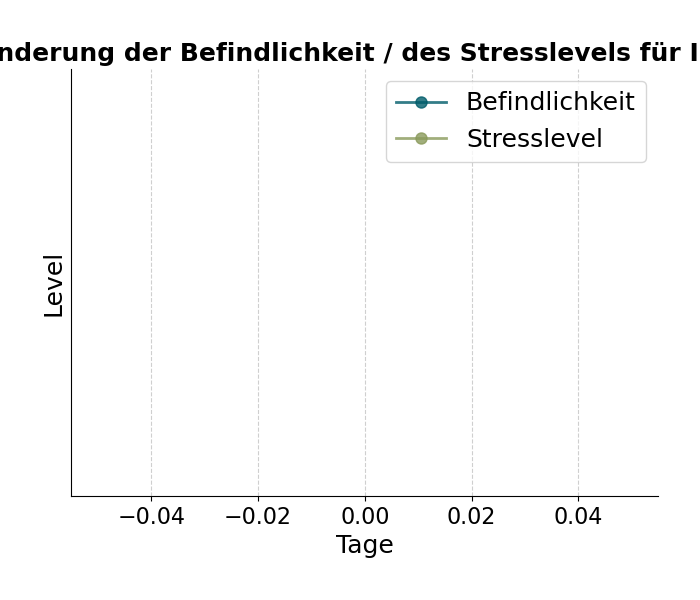
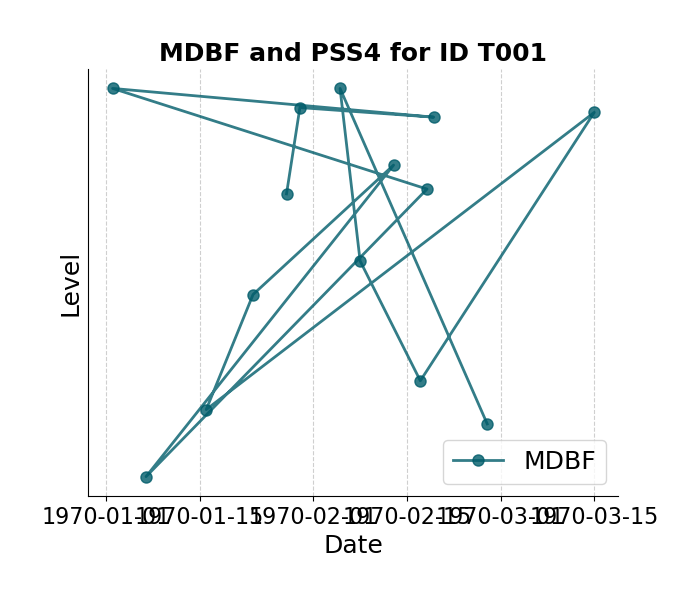
adds linegraphs on dummy data

diff --git a/src/visualization.py b/src/visualization.py
@@ -50,6 +50,55 @@ def plot_pie_charts(data: pd.DataFrame, topics_columns: list, output_dir: str):
         fig1.savefig(file_path, facecolor='white')
         plt.close(fig1)  
 
+def plot_line_graphs(data: pd.DataFrame, mdbf_columns: list, pss4_columns: list, output_dir: str):
+    """
+    Creates line graphs for each unique ID in the 'SERIAL' column, showing average values for MDBF and PSS4 columns.
+    
+    Parameters:
+    - data (pd.DataFrame): The input DataFrame containing the data.
+    - mdbf_columns (list): List of column names related to MDBF.
+    - pss4_columns (list): List of column names related to PSS4.
+    - output_dir (str): Directory where the line graphs will be saved.
+    """
+    
+    # Unique IDs in the SERIAL column
+    unique_ids = data['SERIAL'].unique()
+    
+    for unique_id in unique_ids:
+        # Filter data for the current ID
+        subset = data[data['SERIAL'] == unique_id]
+        print("-----------------")
+        print (unique_id)
+       
+        # Ensure the subset has more than one row for plotting
+        if subset.shape[0] <= 1:
+            continue
+
+        print(subset['MDBF_Awake'])
+        print(subset['STARTED'])
+    
+        # create line graph 
+        fig2, ax2 = plt.subplots(figsize=(7, 6), facecolor='white')
+        ax2.plot(subset['MDBF_Satisfied'], subset['MDBF_Awake'], marker='o', label='MDBF', color='#005C6A', linewidth=2, markersize=8, alpha=0.8)
+        #ax2.plot(subset['STARTED'], subset['PSS4_Stress'], marker='o', label='PSS4', color='#8A9A5B', linewidth=2, markersize=8, alpha=0.8)
+        ax2.set_title(f'MDBF and PSS4 for ID {unique_id}', fontsize=18, fontweight='bold')
+        ax2.set_xlabel('Date', fontsize=18)
+        ax2.set_ylabel('Level', fontsize=18)
+        ax2.tick_params(axis='x', labelsize=16)
+        ax2.tick_params(axis='y', labelsize=16)
+        ax2.legend(fontsize=18)
+        ax2.grid(True, linestyle='--', alpha=0.6)
+        ax2.fill_between(subset['STARTED'], subset[mdbf_columns].mean(axis=1), subset[pss4_columns].mean(axis=1), color='grey', alpha=0.1)
+        ax2.spines['top'].set_visible(False)
+        ax2.spines['right'].set_visible(False)
+        ax2.yaxis.set_ticks([])
+        plt.tight_layout(pad=3.0)
+        
+        # Save the line graph
+        file_path = os.path.join(output_dir, f'line_graph_{unique_id}.png')
+        fig2.savefig(file_path, facecolor='white')
+        plt.close(fig2) 
+
 def create_visualizations(data: pd.DataFrame, mdbf_columns: list, pss4_columns: list, topics_columns: list, output_dir: str):
     """
     Creates all plots for the individual participants
@@ -67,4 +116,4 @@ def create_visualizations(data: pd.DataFrame, mdbf_columns: list, pss4_columns: 
     os.makedirs(output_dir, exist_ok=True)
 
     plot_pie_charts(data, topics_columns, output_dir)
-    #plot_line_graphs(data, mdbf_columns, pss4_columns, output_dir)
+    plot_line_graphs(data, mdbf_columns, pss4_columns, output_dir)

diff --git a/src/main.py b/src/main.py
@@ -32,7 +32,7 @@ def main():
     print("Data loaded and processed successfully!")
     pd.set_option('display.max_columns', None)  # Show all columns
     pd.set_option('display.max_rows', 10)       
-    print(processed_data.head())  
+    #print(processed_data.head())  
 
 
     # Plot pie charts for each unique ID

diff --git a/src/preprocessing.py b/src/preprocessing.py
@@ -46,6 +46,6 @@ def preprocess_data(data: pd.DataFrame) -> pd.DataFrame:
     data['QUESTNNR'] = data['QUESTNNR'].astype(str)
     data['MODE'] = data['MODE'].astype(str)
 
-    print(data.dtypes)
+    #print(data.dtypes)
 
     return data
